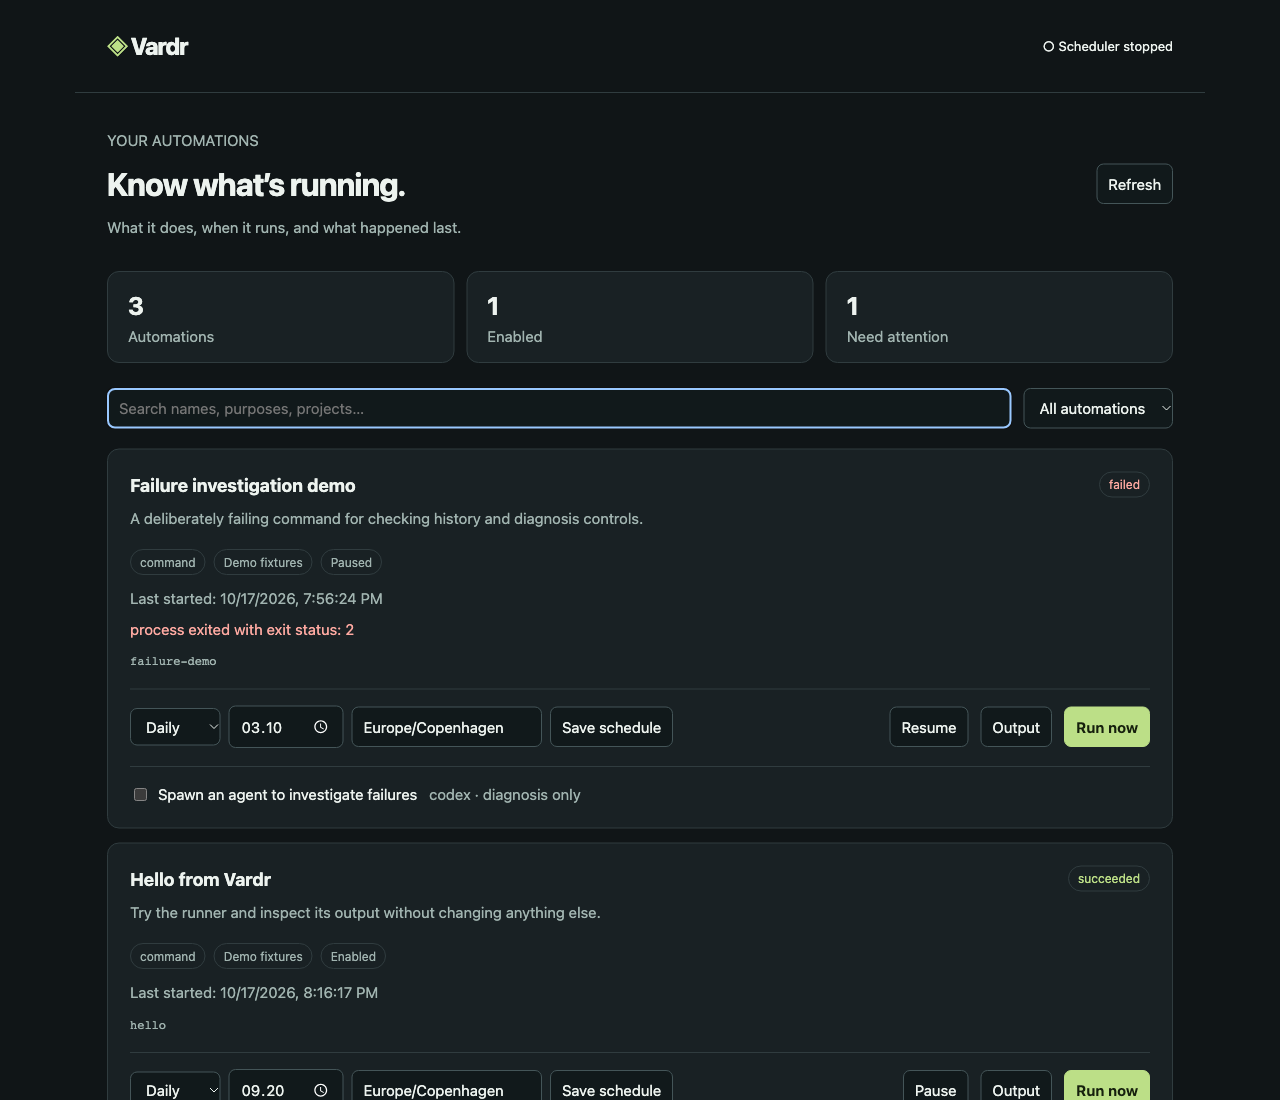
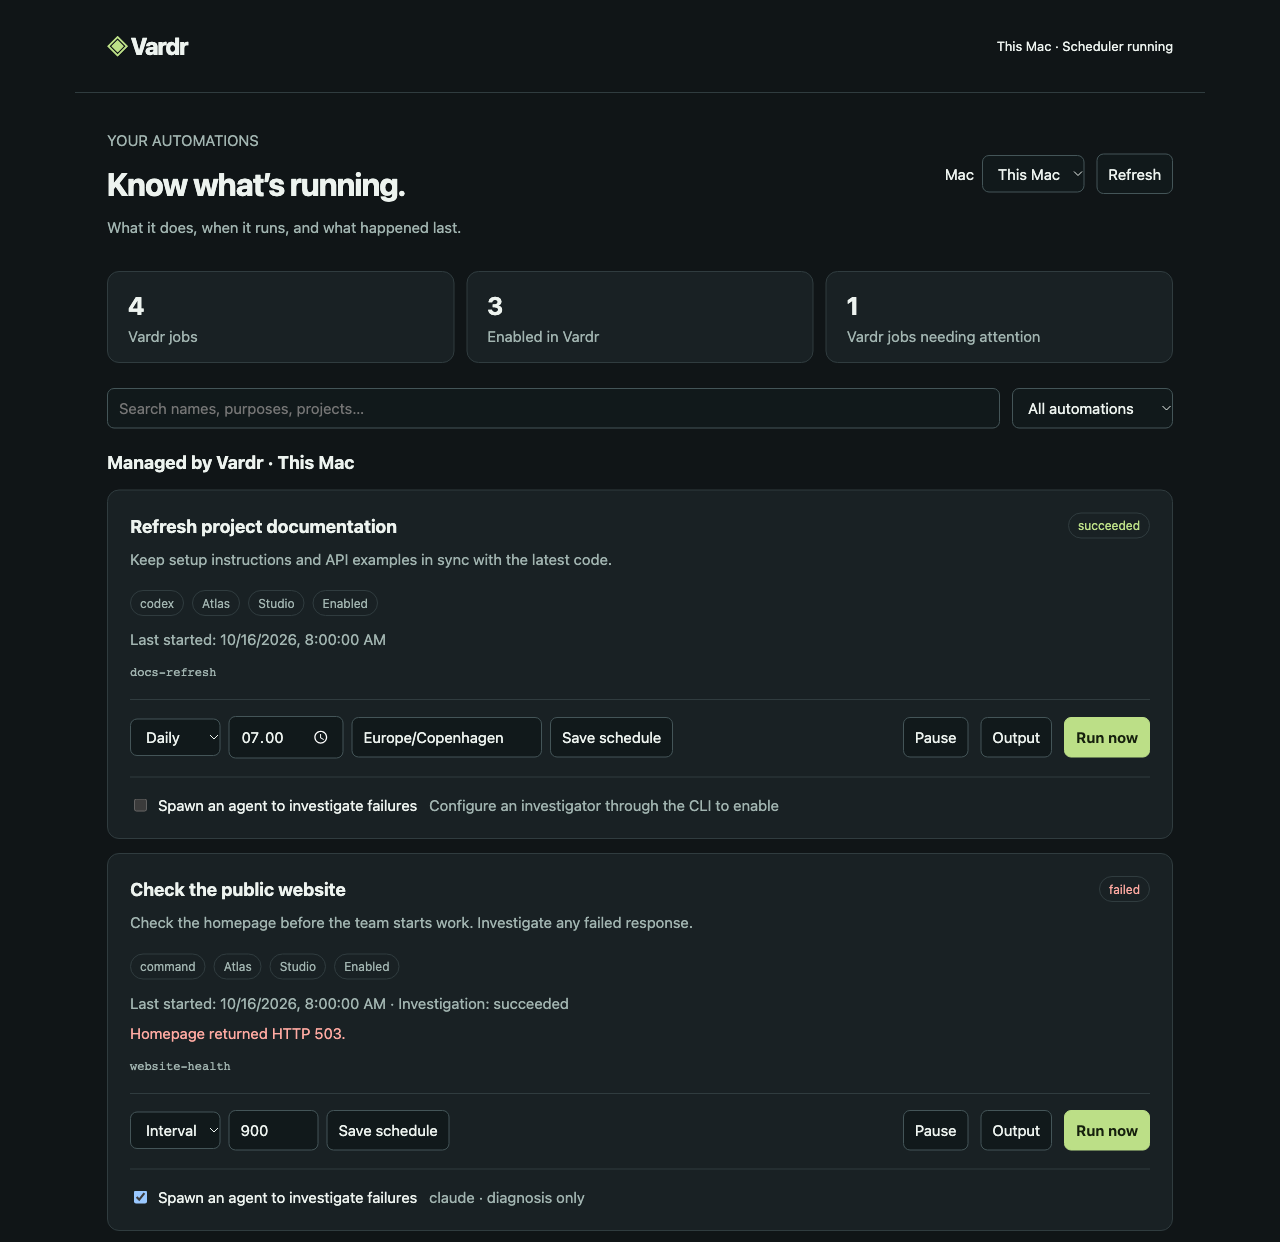
Show synthetic-data screenshots in the README

diff --git a/README.md b/README.md
@@ -6,7 +6,26 @@ Vardr is a lightweight Rust CLI and background runner with an optional native ma
 
 **First draft, v0.4.0.** macOS app; macOS and Linux CLI. No Electron runtime, Node runtime, database server, or always-open browser is needed. Agent processes run only when a task or failure investigation calls for them. Actual agent memory use depends on the chosen agent.
 
-![Vardr dashboard with public demo jobs](docs/dashboard.png)
+**Screenshots use synthetic demo data:** names, machines, schedules, run results, and logs are fictional. The macOS app and browser dashboard share this interface.
+
+![Vardr overview showing job purposes, editable schedules, run status, and an enabled failure investigator](docs/dashboard.png)
+
+<details>
+<summary>More screenshots: run output, launchd inspection, and mobile dashboard</summary>
+
+**Run output.** Filter jobs needing attention and inspect the latest output. A completed investigation does not change the original failed result.
+
+![Latest run output for a fictional website health check, with its failed status and opt-in investigator visible behind the dialog](docs/run-output.png)
+
+**Existing launchd jobs.** Inspect service status, executable paths, and triggers without changing their owner or schedule.
+
+![Read-only launchd inventory with an expanded definition showing KeepAlive and RunAtLoad triggers](docs/launchd.png)
+
+**Mobile browser layout.** The optional browser dashboard adapts to narrow screens.
+
+<img src="docs/mobile-dashboard.png" alt="Vardr browser dashboard on a narrow screen, with daily schedule controls and run actions" width="360">
+
+</details>
 
 ## What works
 
